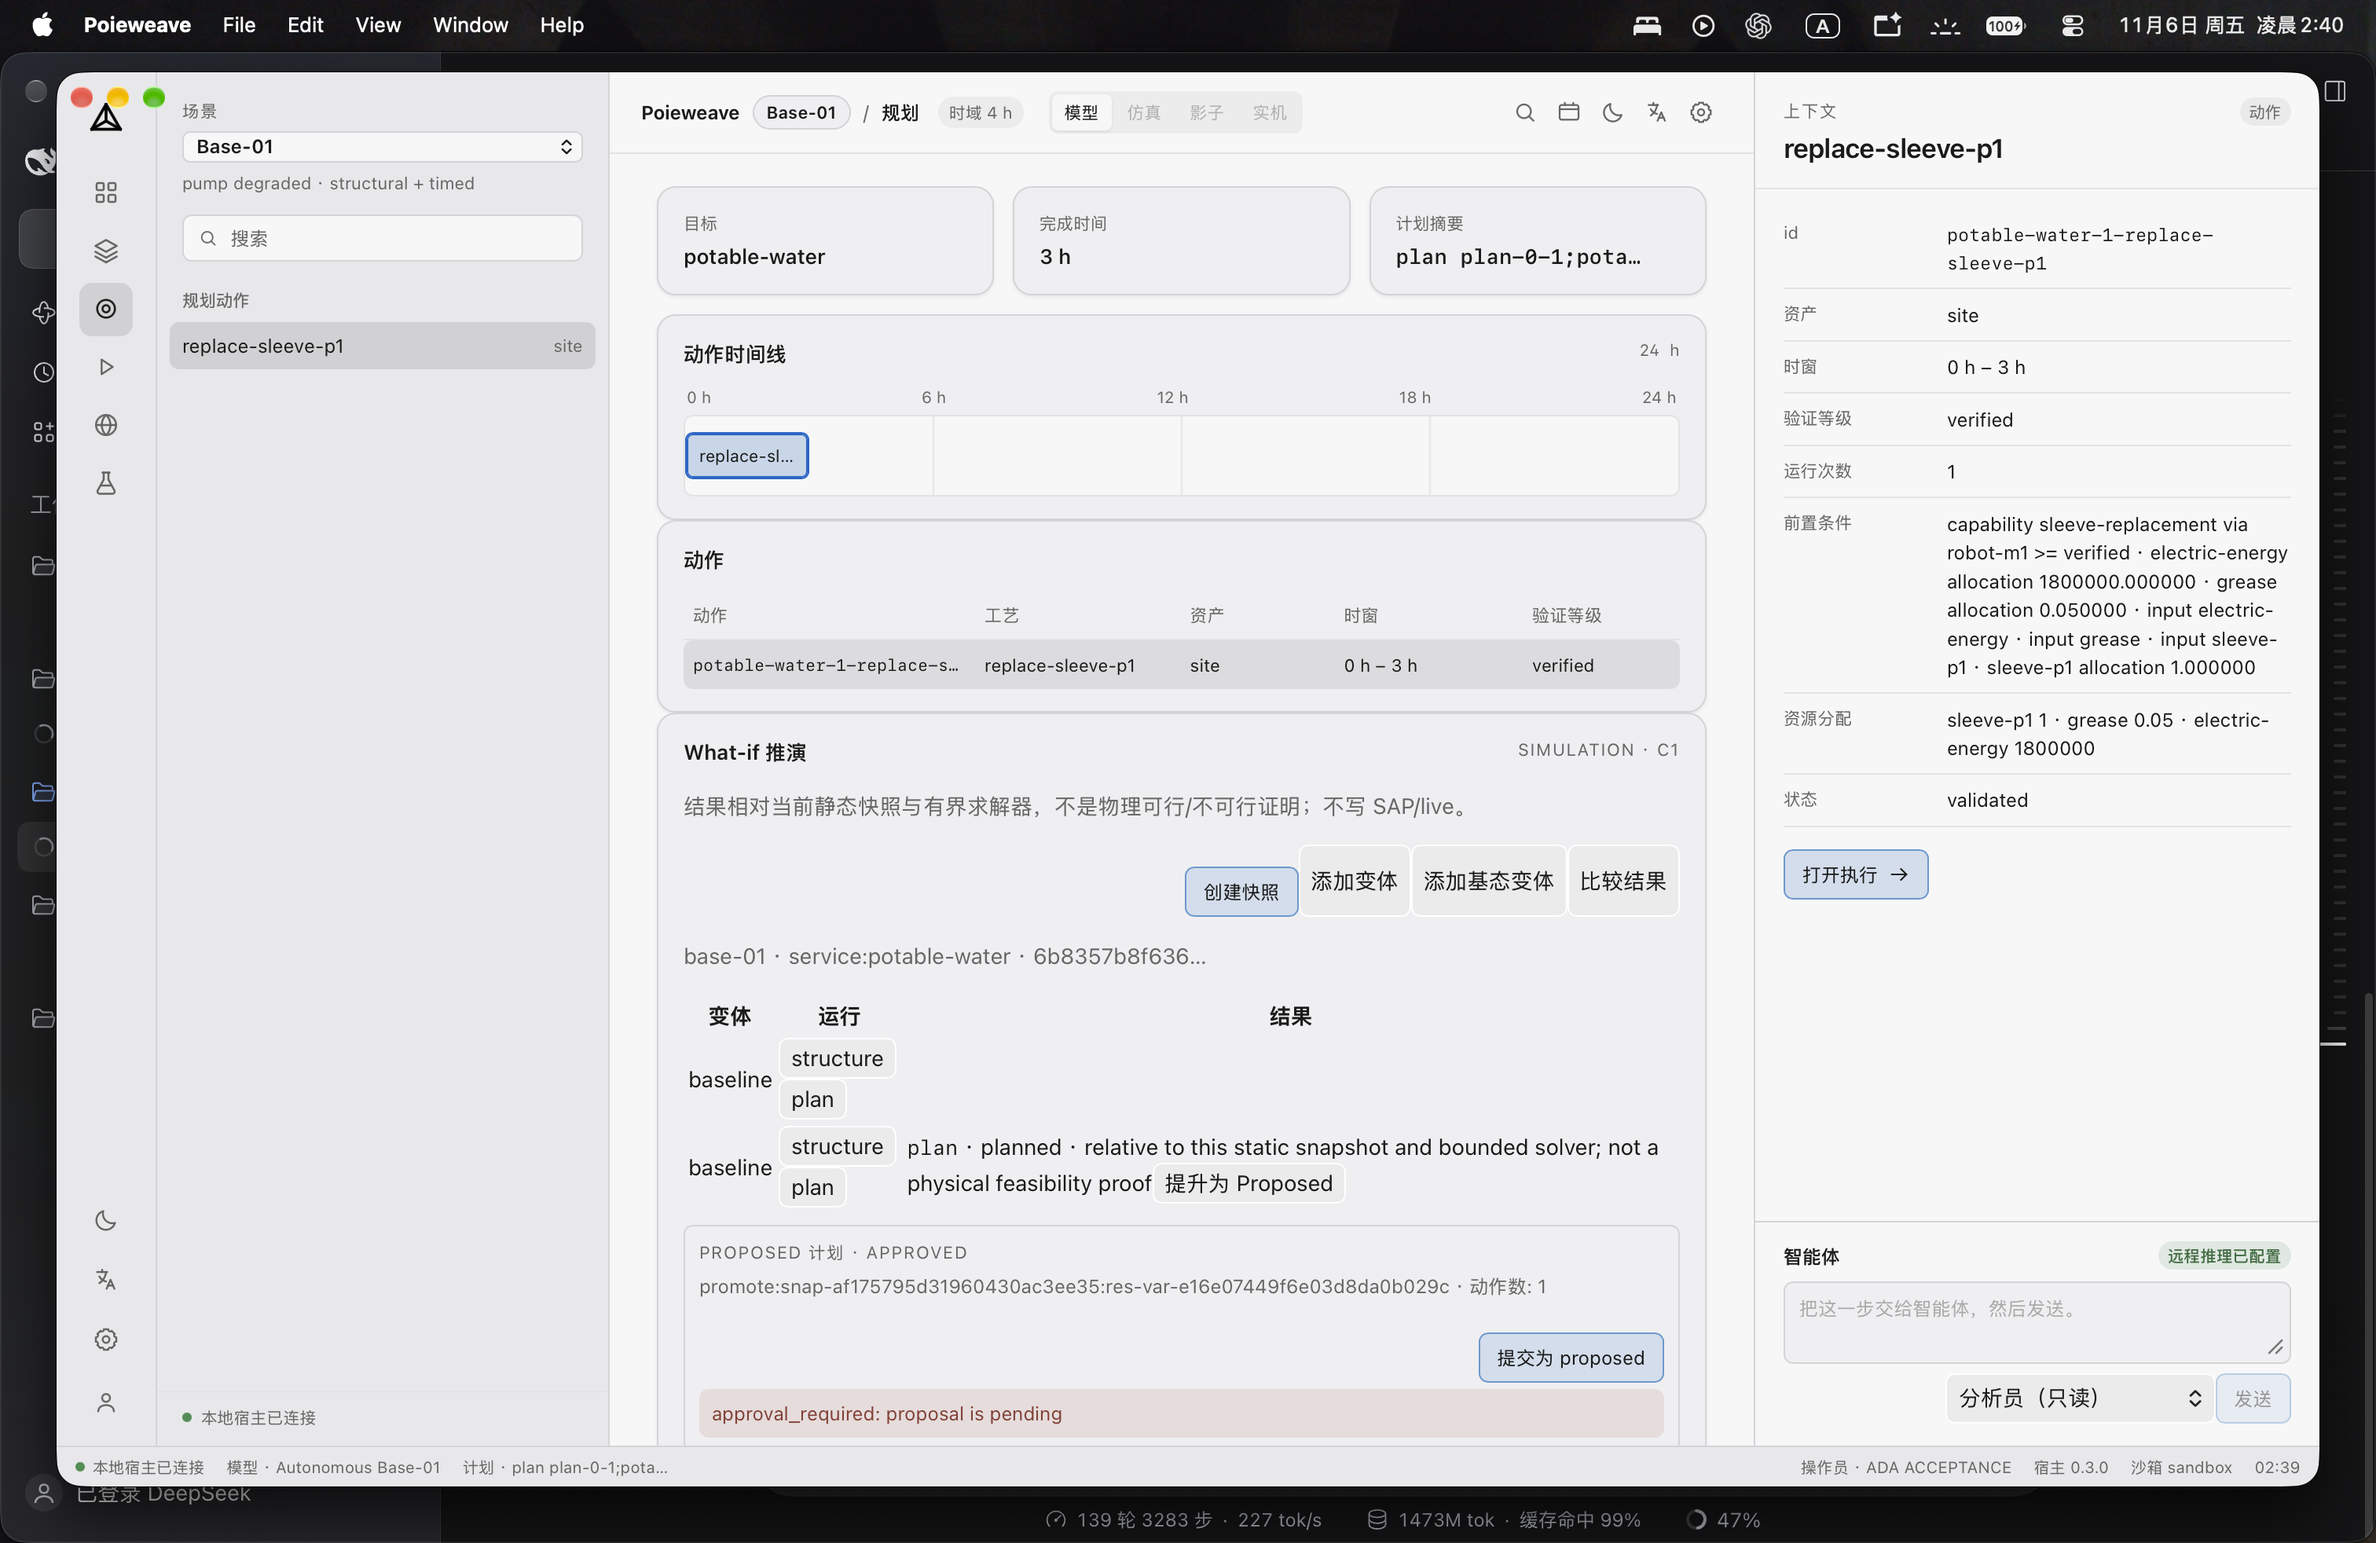
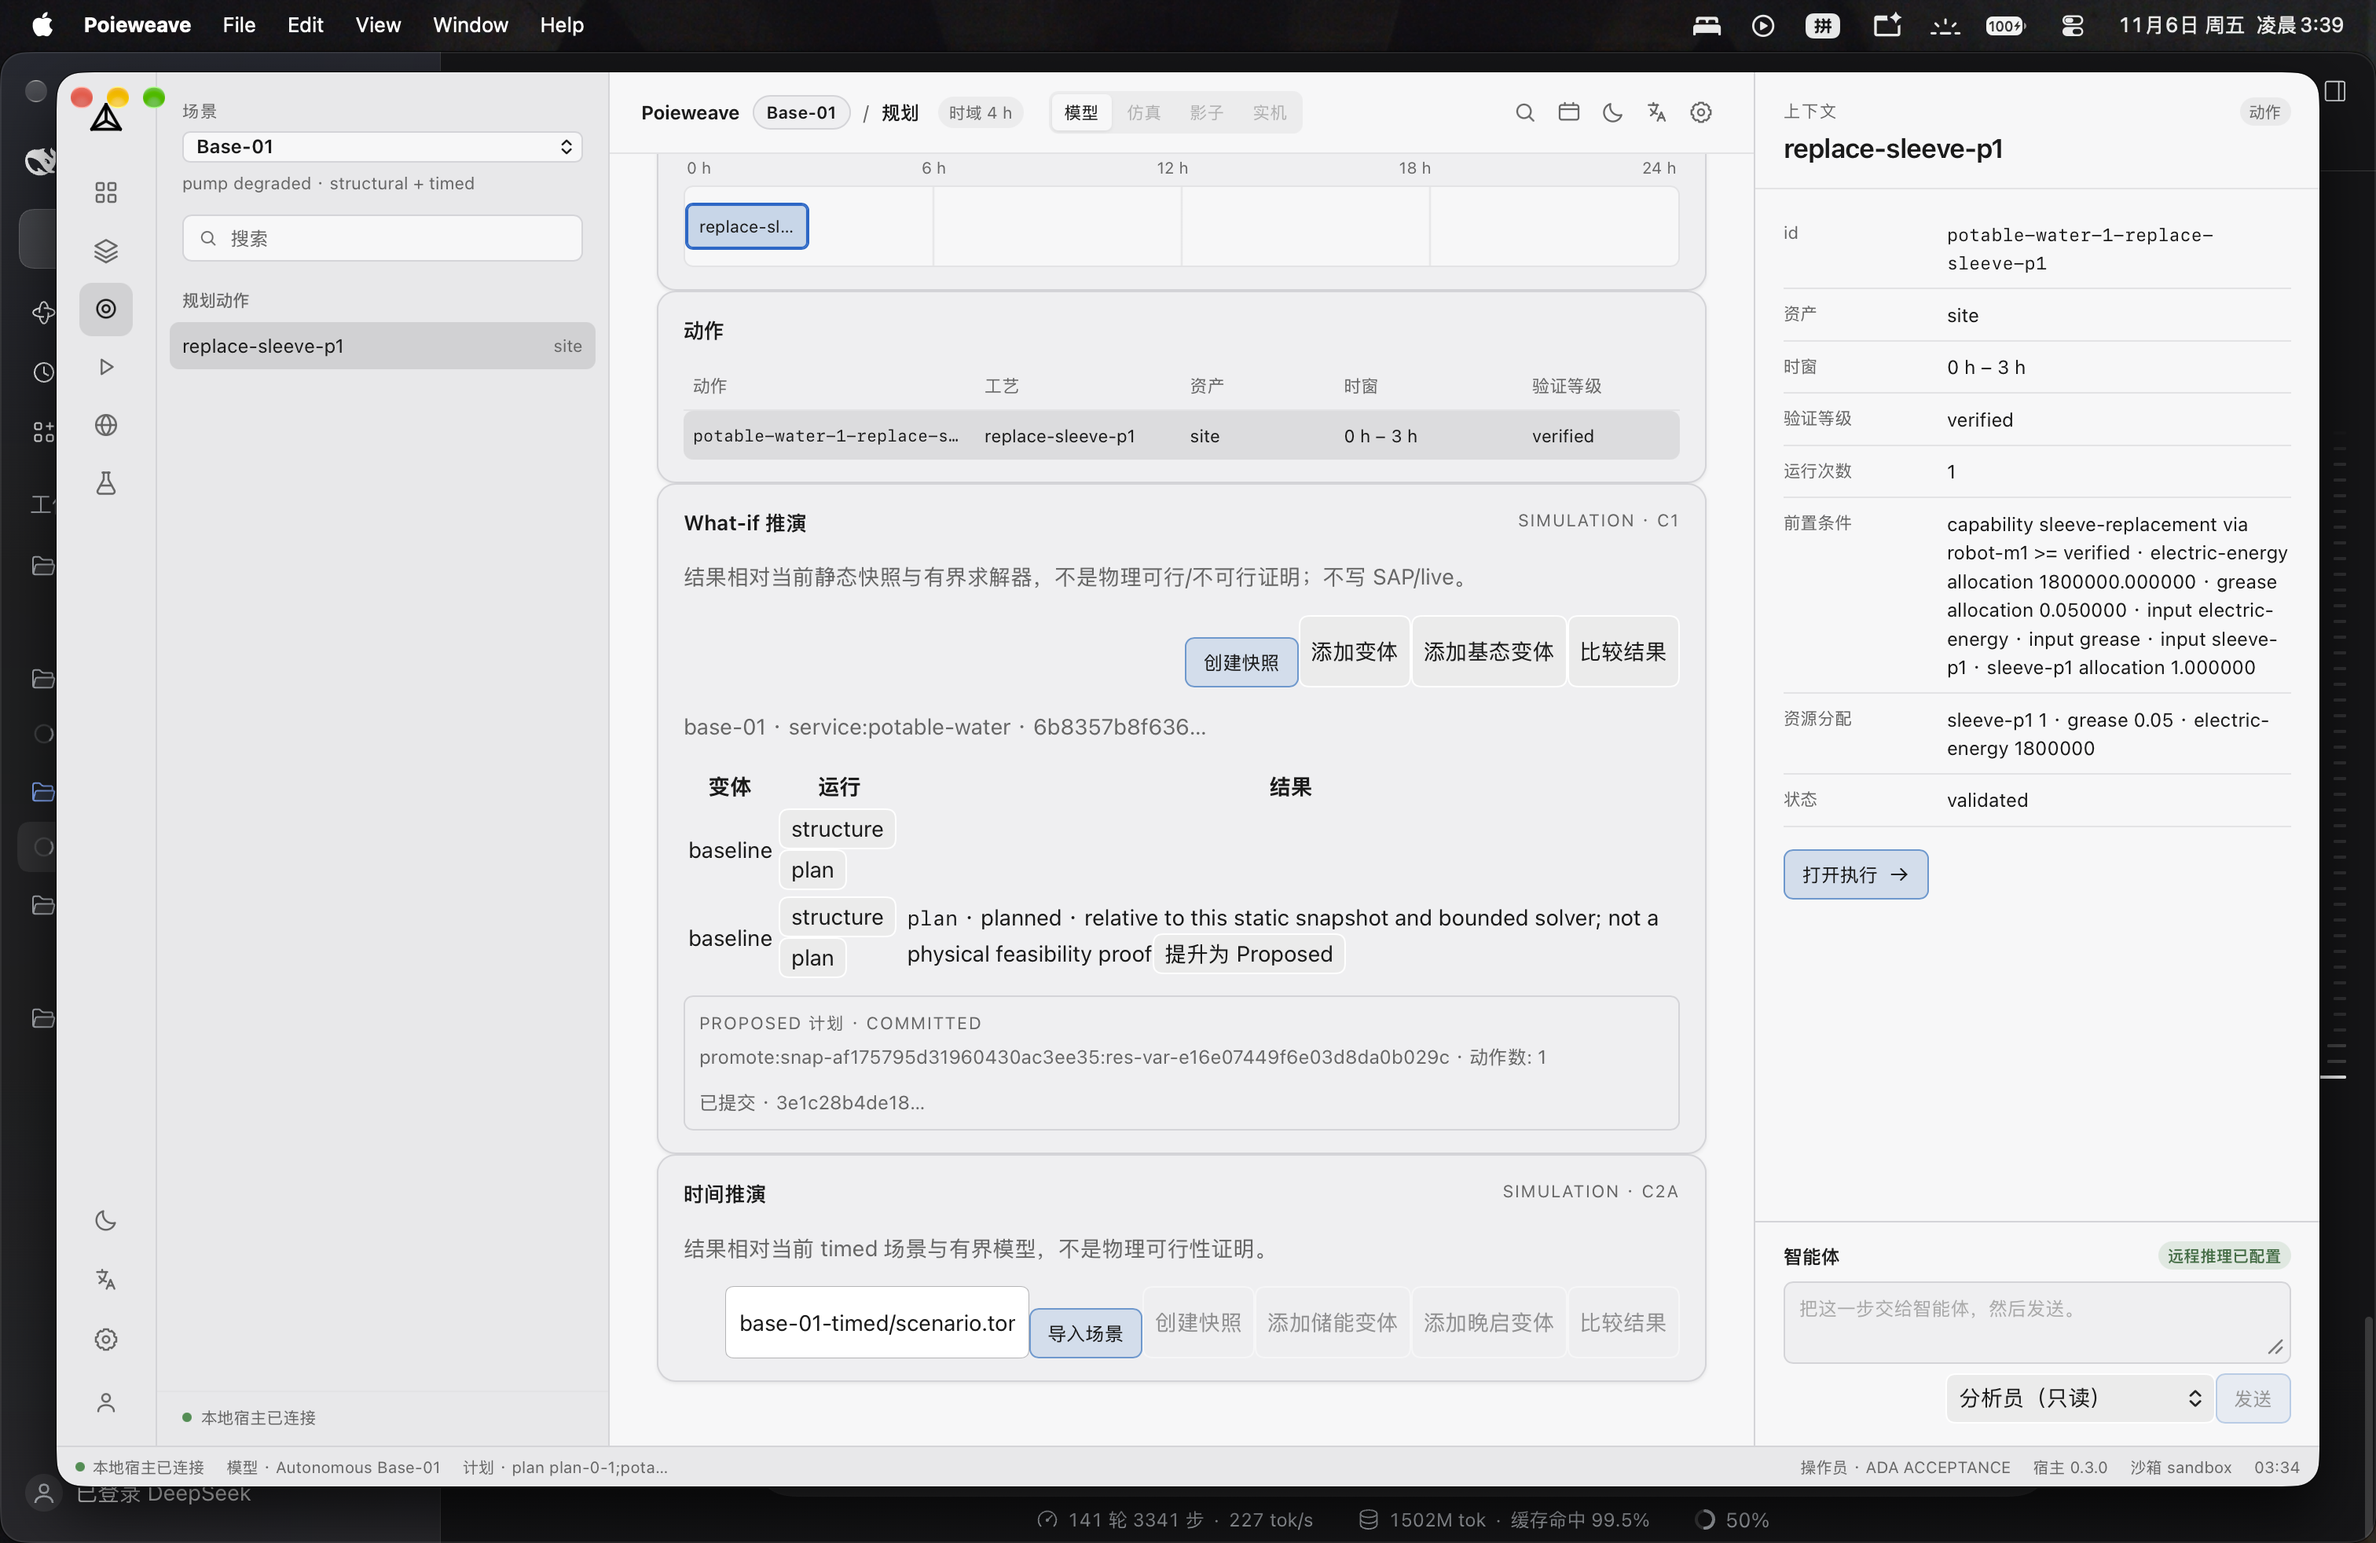
fix(c2b): sync proposal status and verify commit UI

diff --git a/apps/desktop/src/App.tsx b/apps/desktop/src/App.tsx
@@ -863,6 +863,17 @@ function WhatIfPanel({ lang, hosted }: { lang: Lang; hosted: boolean }) {
     return () => { cancelled = true; };
   }, [hosted]);
 
+  useEffect(() => {
+    if (!hosted) return;
+    let cancelled = false;
+    (async () => {
+      const proposals = await invoke<PromotionProposal[]>("whatif_promote_list", { limit: 20 });
+      const active = proposals.find((proposal) => proposal.status === "pending" || proposal.status === "approved");
+      if (active && !cancelled) setPromotion(active);
+    })().catch(() => { /* no active proposal is fine */ });
+    return () => { cancelled = true; };
+  }, [hosted]);
+
   const prepare = async () => {
     setBusy(true); setError("");
     try {
@@ -940,6 +951,17 @@ function WhatIfPanel({ lang, hosted }: { lang: Lang; hosted: boolean }) {
     } catch (caught) { setPromotionError(String(caught)); } finally { setBusy(false); }
   };
 
+  useEffect(() => {
+    const onKeyDown = (event: KeyboardEvent) => {
+      if (event.ctrlKey && event.key === "Enter" && promotion?.status === "approved") {
+        event.preventDefault();
+        void commitPromotion();
+      }
+    };
+    window.addEventListener("keydown", onKeyDown);
+    return () => window.removeEventListener("keydown", onKeyDown);
+  });
+
   return (
     <section className="card whatif">
       <div className="card__head"><h2>{t("whatif.title")}</h2><span className="eyebrow">SIMULATION · C1</span></div>
@@ -991,7 +1013,7 @@ function WhatIfPanel({ lang, hosted }: { lang: Lang; hosted: boolean }) {
                   </>
                 ) : null}
                 {promotion.status === "approved" ? (
-                  <button className="primary" type="button" onClick={() => void commitPromotion()} disabled={busy}>{t("promotion.commit")}</button>
+                  <button className="primary" type="button" onMouseDown={() => void commitPromotion()} onClick={() => void commitPromotion()}>{t("promotion.commit")}</button>
                 ) : null}
               </div>
               {promotionCommit ? <p className="muted">{t("promotion.committed")} · {promotionCommit.commitSha256.slice(0, 12)}…</p> : null}

diff --git a/apps/desktop/src-tauri/src/whatif.rs b/apps/desktop/src-tauri/src/whatif.rs
@@ -509,7 +509,11 @@ fn promotion_state_version() -> std::collections::BTreeMap<String, u64> {
 fn load_promotion(state: &AppState, proposal_id: &str) -> Result<PromotionProposal, String> {
     let db = state.db.lock().map_err(|_| "database lock poisoned".to_string())?;
     let json = db.promotion_proposal(proposal_id)?.ok_or_else(|| format!("unknown_proposal: {proposal_id}"))?;
-    serde_json::from_str(&json).map_err(|error| error.to_string())
+    let mut proposal: PromotionProposal = serde_json::from_str(&json).map_err(|error| error.to_string())?;
+    if let Some((status, _, _)) = db.promotion_status(proposal_id)? {
+        proposal.status = status;
+    }
+    Ok(proposal)
 }
 
 fn token_for(db: &crate::db::Db, id: &str) -> Result<ApprovalToken, String> {
@@ -669,7 +673,11 @@ pub fn whatif_promote_list(limit: Option<u32>, state: State<'_, AppState>) -> Re
     let db = state.db.lock().map_err(|_| "database lock poisoned".to_string())?;
     db.promotion_proposals(limit.unwrap_or(20).clamp(1, 100))?
         .into_iter()
-        .map(|json| serde_json::from_str(&json).map_err(|error| error.to_string()))
+        .map(|(status, json)| {
+            let mut proposal: PromotionProposal = serde_json::from_str(&json).map_err(|error| error.to_string())?;
+            proposal.status = status;
+            Ok(proposal)
+        })
         .collect()
 }
 
@@ -764,7 +772,10 @@ pub fn whatif_promote_commit(proposal_id: String, state: State<'_, AppState>) ->
     }
     let proposal_json =
         db.promotion_proposal(&proposal_id)?.ok_or_else(|| format!("unknown_proposal: {proposal_id}"))?;
-    let proposal: PromotionProposal = serde_json::from_str(&proposal_json).map_err(|error| error.to_string())?;
+    let mut proposal: PromotionProposal = serde_json::from_str(&proposal_json).map_err(|error| error.to_string())?;
+    if let Some((status, _, _)) = db.promotion_status(&proposal_id)? {
+        proposal.status = status;
+    }
     if proposal.status != "approved" {
         return Err(format!("approval_required: proposal is {}", proposal.status));
     }

diff --git a/apps/desktop/src-tauri/src/db.rs b/apps/desktop/src-tauri/src/db.rs
@@ -472,12 +472,13 @@ impl Db {
             .map_err(|error| error.to_string())
     }
 
-    pub fn promotion_proposals(&self, limit: u32) -> Result<Vec<String>, String> {
+    pub fn promotion_proposals(&self, limit: u32) -> Result<Vec<(String, String)>, String> {
         let mut statement = self
             .connection
-            .prepare("SELECT proposal_json FROM promotion_proposals ORDER BY created_at DESC LIMIT ?1")
+            .prepare("SELECT status, proposal_json FROM promotion_proposals ORDER BY created_at DESC LIMIT ?1")
             .map_err(|error| error.to_string())?;
-        let rows = statement.query_map([limit], |row| row.get(0)).map_err(|error| error.to_string())?;
+        let rows =
+            statement.query_map([limit], |row| Ok((row.get(0)?, row.get(1)?))).map_err(|error| error.to_string())?;
         rows.collect::<Result<Vec<_>, _>>().map_err(|error| error.to_string())
     }
 

diff --git a/docs/DEVELOPMENT.zh-CN.md b/docs/DEVELOPMENT.zh-CN.md
@@ -622,3 +622,4 @@ flowchart LR
 | 0.1.126 | 2026-11-05 | 发布硬化：What-if 重启后加载持久化 snapshot/variant/result；审批 token 生命周期集成测试；Agent 画像选择与 UI 断言；版本 0.1.2 |
 | 0.1.127 | 2026-11-06 | C2a 实现：timed scenario from_source/evaluate、独立 timed DTO/digest、host import/snapshot/variant/run/compare + v5 表、Timed UI；版本 0.2.0 |
 | 0.1.128 | 2026-11-06 | C2b 实现：SAP plan_to_actions_at/preview_actions、promotion DTO/digest、v6 propose/approve/commit、Proposed UI、C1 horizon 修复；版本 0.3.0 |
+| 0.1.129 | 2026-11-06 | C2b 收尾：proposal 状态以 DB 列为准、加载活跃 proposal、commit 快捷键；真实 UI commit 验收通过；版本 0.3.1 |
